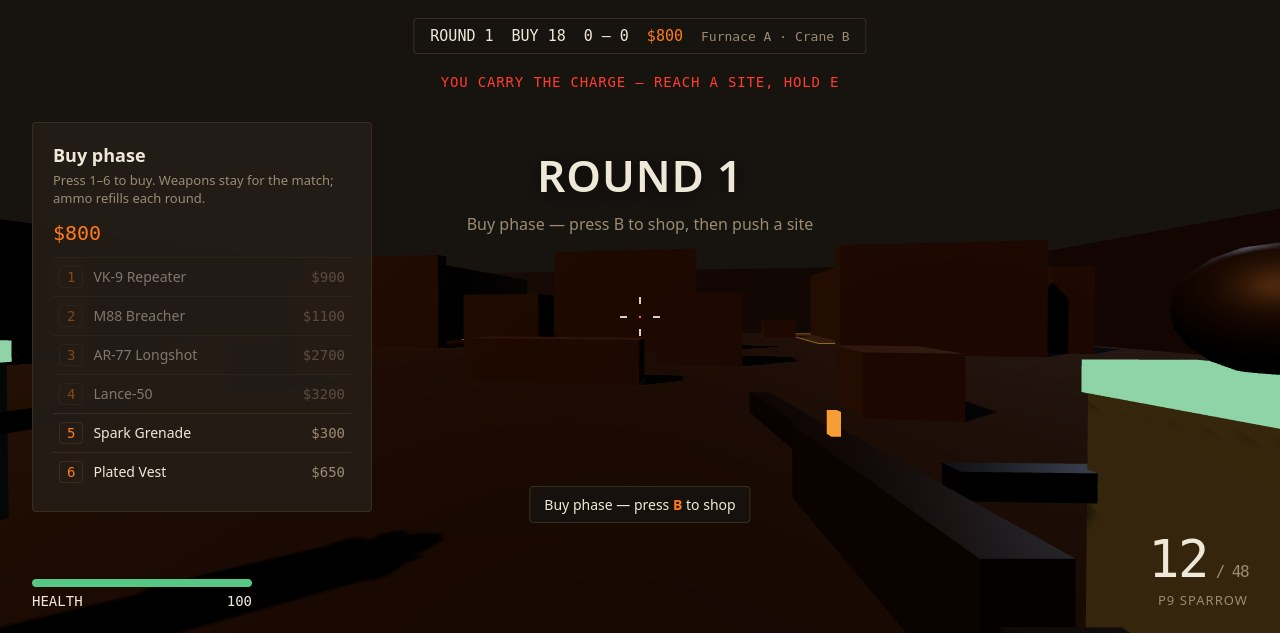
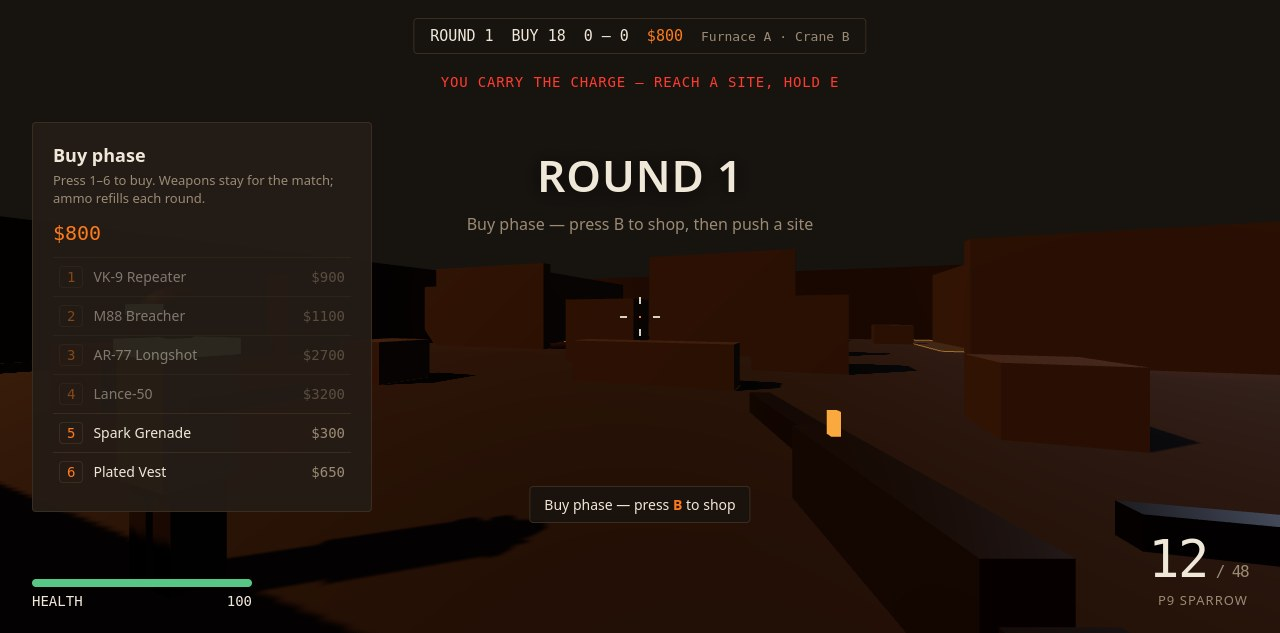
Cinderworks v2: readable light, planted-charge prop, four-shot set
- map/main: hemisphere bounce lifted off the floor colour, stronger sun
  and fill, exposure 1.38, fog pushed out, ember work light at Crane Dock
  — shadowed lanes and both sites now read at a glance.
- main: the planted charge exists in the world as a blinking ember box
  that pulses faster inside the last ten seconds of the fuse.
- main: declare the started flag the Play/lock handlers assign (strict
  mode threw on first lock); shot staging rebuilt — open site-A fight,
  new plant shot, HUD painted by syncHud like a live frame.
- weapons: smaller, softer muzzle flash quad.
- palette: drop the unused hex helper.
- screenshots: four staged renders (buy, site-A fight, charge planted,
  round won), brighter and denser than the v1 set.

diff --git a/game/src/main.js b/game/src/main.js
@@ -2,8 +2,8 @@
 // at the display's rate; rendering never touches simulation state. The state
 // object is the single place every module reads from: time, the world, the
 // player, the bots, the match, the charge, and the event queue the loop drains
-// once per step. ?shot=start|play|end with &seed=N stages a deterministic frame
-// for a capture, renders it twice, freezes it and sets window.__shotReady.
+// once per step. ?shot=start|play|plant|end with &seed=N stages a deterministic
+// frame for a capture, renders it twice, freezes it and sets window.__shotReady.
 import * as THREE from 'three';
 import { PALETTE } from './palette.js';
 import { mulberry32 } from './rng.js';
@@ -30,16 +30,16 @@ renderer.setPixelRatio(Math.min(window.devicePixelRatio, 2));
 renderer.setSize(window.innerWidth, window.innerHeight);
 renderer.shadowMap.enabled = true;
 renderer.shadowMap.type = THREE.PCFSoftShadowMap;
-// ACES tone mapping with a slight exposure lift: the foundry palette is dark
+// ACES tone mapping with a real exposure lift: the foundry palette is dark
 // browns and oranges, and the extra headroom keeps shadowed lanes readable
 // at a glance instead of crushing them to black.
 renderer.toneMapping = THREE.ACESFilmicToneMapping;
-renderer.toneMappingExposure = 1.18;
+renderer.toneMappingExposure = 1.38;
 document.getElementById('game').appendChild(renderer.domElement);
 
 const scene = new THREE.Scene();
 scene.background = new THREE.Color(PALETTE.canvas);
-scene.fog = new THREE.Fog(new THREE.Color(PALETTE.canvas), 22, 60);
+scene.fog = new THREE.Fog(new THREE.Color(PALETTE.canvas), 30, 90);
 const camera = new THREE.PerspectiveCamera(74, window.innerWidth / window.innerHeight, 0.05, 160);
 scene.add(camera);
 
@@ -50,6 +50,48 @@ const hud = createHud();
 const audio = createAudio();
 const effects = createEffects(scene);
 const viewModel = createViewModel(camera);
+
+// The planted charge as a scene prop: a squat ember-cored box that sits where
+// rounds.js says the charge lies and blinks faster as the fuse burns down, so
+// the objective reads in the world and not only in the HUD line. Purely
+// visual — the match and the bots read charge state, never this mesh. Both
+// materials are made once here; the hot loop only moves the group and sets
+// the core's emissive intensity.
+const chargeProp = new THREE.Group();
+const chargeBase = new THREE.Mesh(
+  new THREE.BoxGeometry(0.52, 0.2, 0.36),
+  new THREE.MeshStandardMaterial({ color: new THREE.Color(PALETTE.hairline), roughness: 0.7, metalness: 0.2 }),
+);
+chargeBase.position.y = 0.1;
+chargeBase.castShadow = true;
+const chargeCore = new THREE.Mesh(
+  new THREE.BoxGeometry(0.3, 0.08, 0.2),
+  new THREE.MeshStandardMaterial({
+    color: new THREE.Color(PALETTE.danger),
+    emissive: new THREE.Color(PALETTE.danger),
+    emissiveIntensity: 0.4,
+    roughness: 0.4,
+  }),
+);
+chargeCore.position.y = 0.24;
+chargeProp.add(chargeBase, chargeCore);
+chargeProp.visible = false;
+scene.add(chargeProp);
+
+function syncChargeProp() {
+  const charge = state.match.charge;
+  if (charge.state !== 'planted') {
+    chargeProp.visible = false;
+    return;
+  }
+  chargeProp.visible = true;
+  chargeProp.position.set(charge.pos.x, 0, charge.pos.z);
+  // Two pulses a second while the fuse is long, four a second inside the
+  // last ten seconds: the blink itself carries the urgency.
+  const rate = charge.fuseLeft < 10 ? 4 : 2;
+  const on = (state.time * rate) % 1 < 0.55;
+  chargeCore.material.emissiveIntensity = on ? 2.6 : 0.25;
+}
 const raycaster = new THREE.Raycaster();
 raycaster.far = 90;
 
@@ -96,6 +138,10 @@ let accumulator = 0;
 let lastTime = performance.now();
 let fov = 74;
 let buyOpen = false;
+// Whether the player has entered the game once (Play clicked / pointer
+// locked). Read by the lock-change and Play handlers below; it must be
+// declared — in a module's strict mode the bare assignment throws.
+let started = false;
 
 function currentGun() {
   return player.guns[player.currentGun];
@@ -288,6 +334,7 @@ function step(dt) {
   stepEffects(state, dt);
   drainEvents();
   syncHud();
+  syncChargeProp();
 }
 
 function refreshBuy() {
@@ -393,42 +440,78 @@ function runShot(name) {
     buyOpen = true;
     refreshBuy();
     settle(30);
-    aimAtPoint(0, 1.4, -6);
+    aimAtPoint(-8, 1.6, -13);
   } else if (name === 'play') {
-    // Round 2, rifle bought, mid-fight down the long lane: the player has a
-    // clear sightline to two enemies pushing from site A.
+    // Round 2, rifle bought, open fight down Long lane: two Slag push the
+    // lane toward site A with the furnace glow behind them, a teammate
+    // advances on the right, and the player's shot is already away — tracer,
+    // muzzle flash and recoil all in the frame.
     state.match.money = 4500;
     buyItem(state, 'rifle');
     state.match.round = 2;
     startRound(state);
     state.match.phase = 'live';
     state.match.phaseTime = 20;
-    playerBody.position.set(-19.5, 0, 6);
+    playerBody.position.set(-12.8, 0, -6.8);
     playerBody.yaw = 0;
     playerBody.pitch = 0.01;
     settle(40);
     hud.hideBanner();
     // Stage the fight AFTER the settle: bots walk their holds during it, so
     // positions set before would have drifted by the time the shot fires.
+    // The fight is staged inside site A itself — the one open stage where
+    // the furnace glow backlights both Slag, a Cinder teammate already
+    // holds the furnace side, and no wall mass eats the frame.
     const enemy = slagBots[0];
-    enemy.body.position.set(-19, 0, -6.5);
+    enemy.body.position.set(-16.8, 0, -10.5);
     enemy.body.yaw = Math.PI;
     enemy.body.velocity.set(0, 0, 0);
     const enemy2 = slagBots[1];
-    enemy2.body.position.set(-14, 0, -9);
-    enemy2.body.yaw = Math.PI * 0.8;
+    enemy2.body.position.set(-18.5, 0, -6);
+    enemy2.body.yaw = Math.PI * 0.85;
     enemy2.body.velocity.set(0, 0, 0);
     const ally = cinderBots[0];
-    ally.body.position.set(-16, 0, 2);
+    ally.body.position.set(-15.8, 0, -13.8);
     ally.body.yaw = 0;
     ally.body.velocity.set(0, 0, 0);
     // The capture stages a healthy player mid-fight, whatever the bots did
     // during the settle.
     playerBody.health = 100;
-    aimAtPoint(-19, 1.2, -6.5);
+    aimAtPoint(-16.8, 1.2, -10.5);
     const gun = currentGun();
     if (gun.fire()) playerShoot(state, gun);
     viewModel.trigger();
+    // Four steps on: the muzzle flash (a flat quad) has burned off, the
+    // tracer is down to a thread, and the impact sparks are still alive —
+    // the frame keeps the shot's evidence without the flash quad's slab.
+    settle(4);
+  } else if (name === 'plant') {
+    // Round 2, the charge is down at Furnace (A): planted through the real
+    // plantCharge path, then the player falls back inside the site and
+    // covers the blinking charge while two Slag converge from Long lane to
+    // defuse it. The HUD carries the planted line and the fuse timer.
+    state.match.money = 4500;
+    buyItem(state, 'rifle');
+    state.match.round = 2;
+    startRound(state);
+    state.match.phase = 'live';
+    playerBody.position.set(-14.6, 0, -10.6);
+    plantCharge(state, 'A', player);
+    settle(6);
+    // Stage the defence AFTER the settle, like the play shot: the plant
+    // makes every defender converge, so positions are set once they react.
+    playerBody.position.set(-11.2, 0, -11.4);
+    playerBody.velocity.set(0, 0, 0);
+    const pusher = slagBots[0];
+    pusher.body.position.set(-17.6, 0, -8.2);
+    pusher.body.yaw = Math.PI;
+    pusher.body.velocity.set(0, 0, 0);
+    const second = slagBots[1];
+    second.body.position.set(-19.5, 0, -5.5);
+    second.body.yaw = Math.PI;
+    second.body.velocity.set(0, 0, 0);
+    playerBody.health = 100;
+    aimAtPoint(-17.6, 1.15, -8.2);
     settle(1);
   } else {
     // Round won at site A: charge detonated, two Slag down, banner up. The
@@ -452,11 +535,12 @@ function runShot(name) {
     slagBots[1].mesh.group.rotation.x = -Math.PI / 2;
     hud.banner('ROUND WON', 'Slag crew wiped  ·  1 — 0', 60000);
     settle(20);
-    aimAtPoint(-14.5, 1.0, -11.5);
+    aimAtPoint(-15, 1.1, -12);
   }
-  hud.setAmmo(currentGun().state.mag, currentGun().state.reserve);
-  hud.setHealth(Math.ceil(playerBody.health), Math.ceil(playerBody.armor));
-  hud.setMoney(state.match.money);
+  // The tail paints the HUD the way a live frame does — syncHud reads the
+  // staged state (timer, bomb line, hint, crosshair) instead of the capture
+  // restating it by hand.
+  syncHud();
   hud.setScore(state.match.score.cinder, state.match.score.slag);
   hud.setRound(`ROUND ${state.match.round}`);
   paintTwiceThenReady();

diff --git a/game/src/map.js b/game/src/map.js
@@ -179,9 +179,21 @@ export function createWorld(scene) {
     group.add(frame);
   }
 
+  // Crane Dock work light: site B gets the same at-a-glance read as the
+  // furnace — an ember lamp slab on the crane leg and its pool of light.
+  const dockLamp = new THREE.Mesh(new THREE.BoxGeometry(0.6, 0.18, 0.12), glowMaterial);
+  dockLamp.position.set(18.5, 4.5, -11.84);
+  group.add(dockLamp);
+  const dockGlow = new THREE.PointLight(new THREE.Color(PALETTE.accent), 20, 15, 1.8);
+  dockGlow.position.set(18.5, 4.0, -10.9);
+  scene.add(dockGlow);
+
   // Light: low ember sun from the west, cool sky fill, and a warm hemisphere.
-  scene.add(new THREE.HemisphereLight(new THREE.Color('#8a7a68'), new THREE.Color(PALETTE.canvas), 1.22));
-  const sun = new THREE.DirectionalLight(new THREE.Color('#ffb066'), 2.7);
+  // The hemisphere's ground colour is a lifted warm brown, not the page
+  // background: faces turned away from the sun take the bounce of the yard
+  // floor, so shadowed lanes stay readable instead of crushing to black.
+  scene.add(new THREE.HemisphereLight(new THREE.Color('#9a8468'), new THREE.Color('#4a3826'), 1.7));
+  const sun = new THREE.DirectionalLight(new THREE.Color('#ffb066'), 3.2);
   sun.position.set(-16, 18, 10);
   sun.target.position.set(0, 0, -4);
   sun.castShadow = true;
@@ -193,7 +205,7 @@ export function createWorld(scene) {
   sun.shadow.camera.far = 60;
   sun.shadow.bias = -0.0006;
   scene.add(sun, sun.target);
-  const fill = new THREE.DirectionalLight(new THREE.Color('#7d8aa0'), 0.65);
+  const fill = new THREE.DirectionalLight(new THREE.Color('#7d8aa0'), 0.95);
   fill.position.set(12, 10, -14);
   scene.add(fill);
 

diff --git a/game/src/weapons.js b/game/src/weapons.js
@@ -80,8 +80,8 @@ export function createViewModel(camera) {
   camera.add(group);
 
   const flash = new THREE.Mesh(
-    new THREE.PlaneGeometry(0.17, 0.17),
-    new THREE.MeshBasicMaterial({ color: new THREE.Color(PALETTE.accent), transparent: true, opacity: 0.8, depthWrite: false, side: THREE.DoubleSide }),
+    new THREE.PlaneGeometry(0.13, 0.13),
+    new THREE.MeshBasicMaterial({ color: new THREE.Color(PALETTE.accent), transparent: true, opacity: 0.6, depthWrite: false, side: THREE.DoubleSide }),
   );
   flash.position.set(0.24, -0.17, -1.05);
   flash.visible = false;

diff --git a/game/src/palette.js b/game/src/palette.js
@@ -12,7 +12,3 @@ export const PALETTE = {
   ally: '#57c785', // friendly markers and tracers
   enemy: '#ff5a4e', // hostile markers
 };
-
-export function hex(name) {
-  return PALETTE[name];
-}

diff --git a/README.md b/README.md
@@ -4,7 +4,7 @@
 [![rank](https://make.fun/badge/threejs-fps-02/Kivye/cinderworks-fps/rank.svg)](https://make.fun/bounty/threejs-fps-02/leaderboard?utm_source=github&utm_medium=readme&utm_campaign=threejs-fps-02)
 [![reward](https://make.fun/badge/threejs-fps-02/Kivye/cinderworks-fps/reward.svg)](https://make.fun/bounty/threejs-fps-02?utm_source=github&utm_medium=readme&utm_campaign=threejs-fps-02)
 
-A round-based tactical first-person shooter in the style Counter-Strike made famous, built on three.js 0.187.0: two teams fight short rounds in an original foundry-yard map, won by eliminating the other crew or by planting and defending a charge. Money earned each round buys rifles, a marksman, a shotgun and grenades; stopping to aim pays, firing on the move does not. Single-player against eight bots with routes, holds, reactions and hearing.
+A round-based tactical first-person shooter in the style Counter-Strike made famous, built on three.js 0.187.0: two teams fight short rounds in an original foundry-yard map, won by eliminating the other crew or by planting and defending a charge — the planted charge sits in the world as a blinking ember box whose blink quickens as the fuse burns down. Money earned each round buys rifles, a marksman, a shotgun and grenades; stopping to aim pays, firing on the move does not. Single-player against six bots with routes, holds, reactions and hearing.
 
 ## Run it
 
